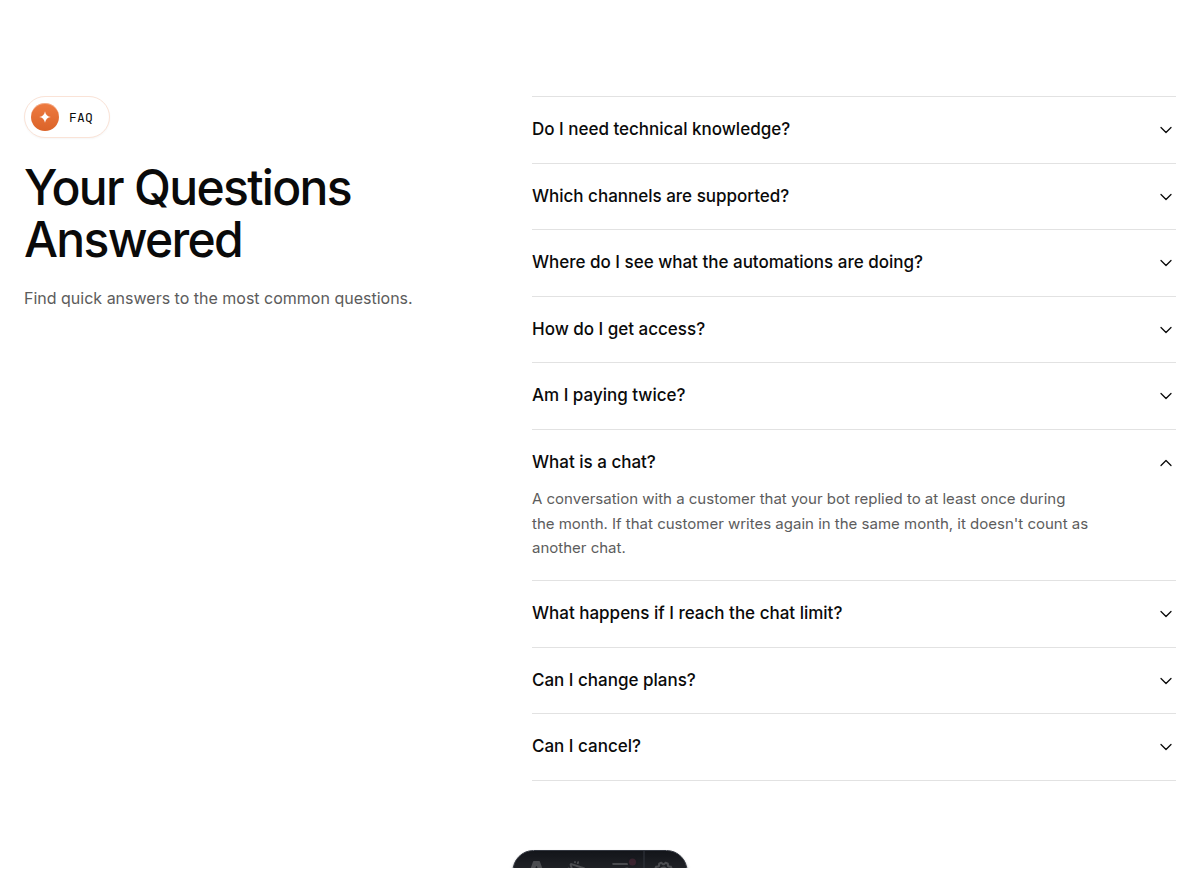
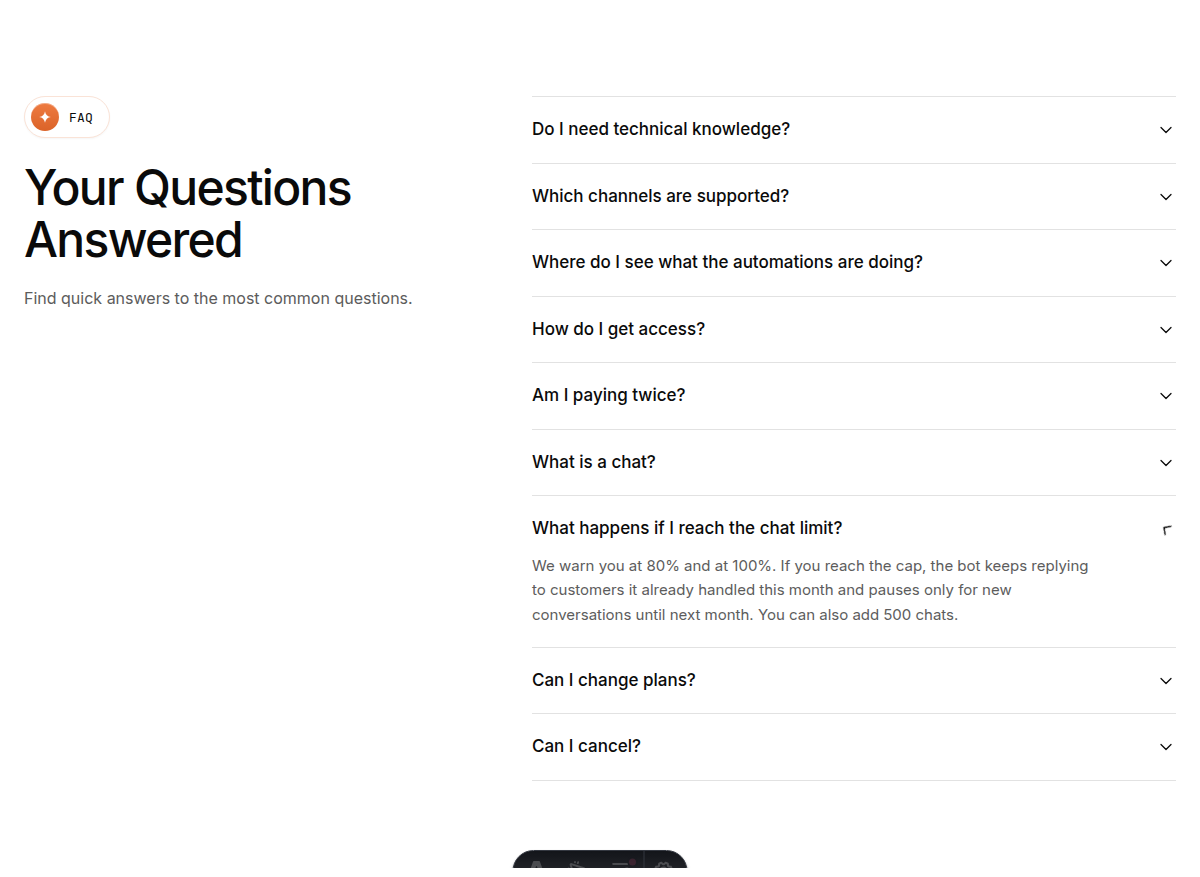
feat: pause the bot only for new chats at the cap
Use the confirmed limit answer and drop "with one click".

Changed region(s): [[0.4317, 0.5542, 0.8942, 0.7081]]

diff --git a/src/i18n/es.ts b/src/i18n/es.ts
@@ -204,7 +204,7 @@ export const es: Dictionary = {
       },
       {
         q: '¿Qué pasa si llego al límite de chats?',
-        a: 'Te avisamos al 80% y al 100%. Si llegás al tope, el bot se pausa hasta el mes siguiente, o podés sumar 500 chats con un clic.',
+        a: 'Te avisamos al 80% y al 100%. Si llegás al tope, el bot sigue atendiendo a los clientes que ya hablaron con vos este mes y se pausa solo para conversaciones nuevas hasta el mes siguiente. También podés sumar 500 chats.',
       },
       {
         q: '¿Puedo cambiar de plan?',

diff --git a/src/i18n/en.ts b/src/i18n/en.ts
@@ -203,7 +203,7 @@ export const en = {
       },
       {
         q: 'What happens if I reach the chat limit?',
-        a: 'We warn you at 80% and at 100%. If you hit the cap, the bot pauses until next month, or you can add 500 chats with one click.',
+        a: 'We warn you at 80% and at 100%. If you reach the cap, the bot keeps replying to customers it already handled this month and pauses only for new conversations until next month. You can also add 500 chats.',
       },
       {
         q: 'Can I change plans?',
